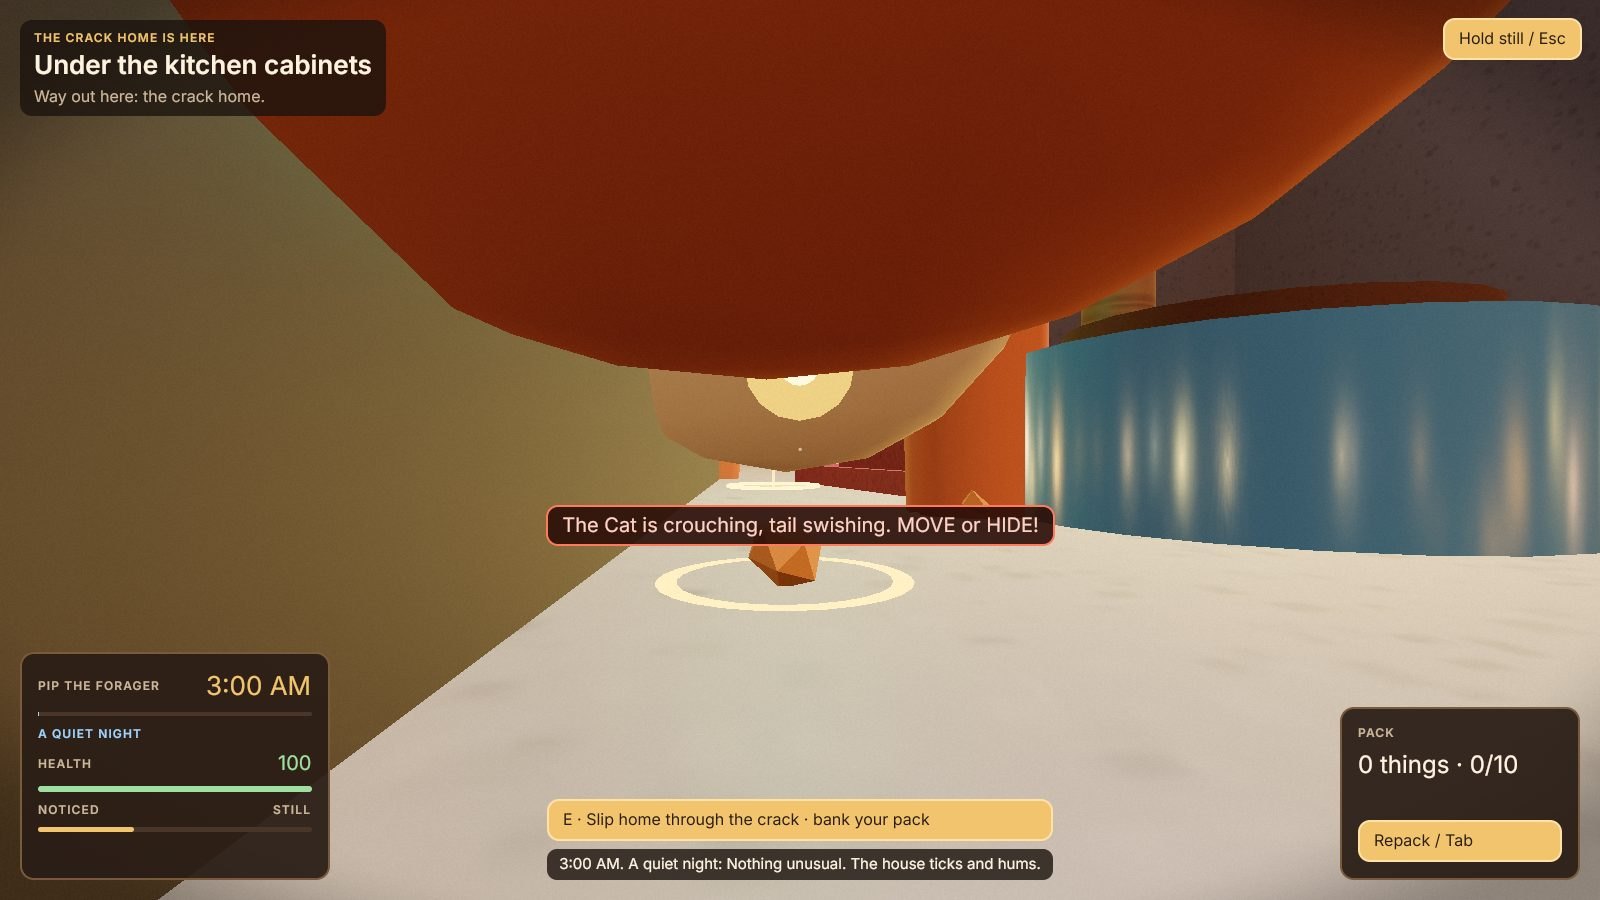
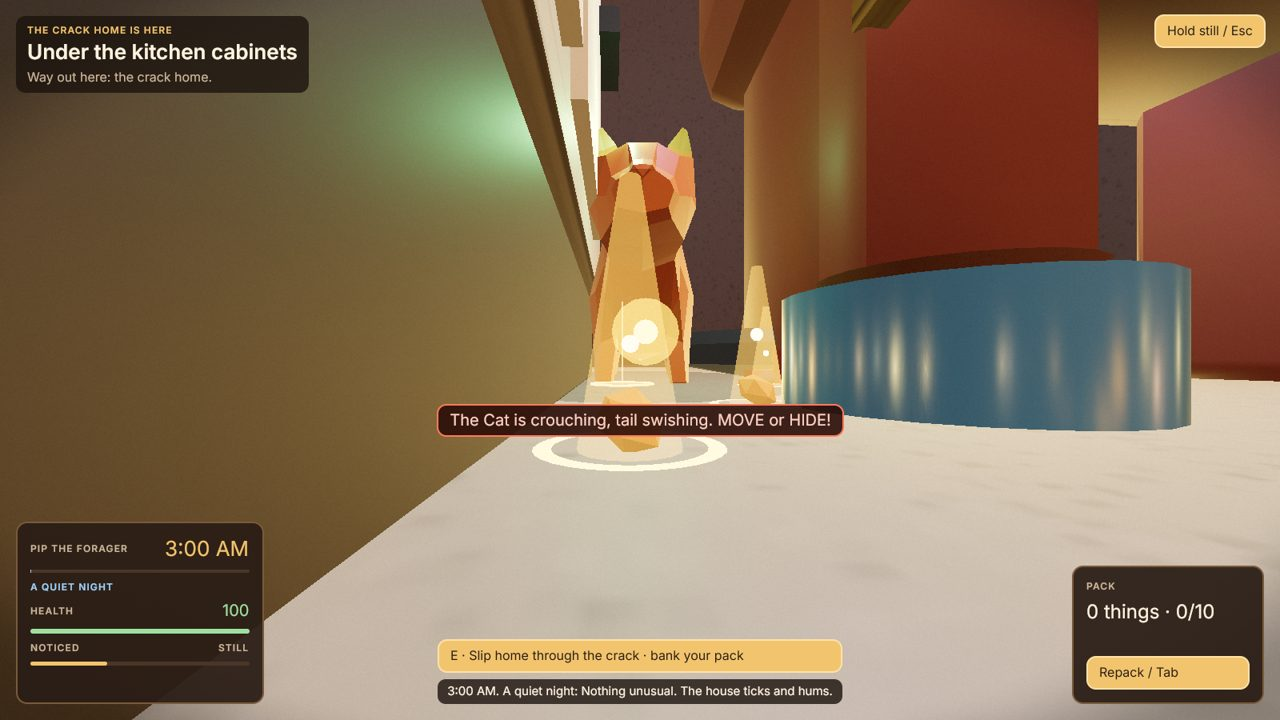
Crumb Run: stash and nook sheets read at a glance; look shots and handoff
The stash capture seeds a few finds so the sheet shows real rows; each set row counts what is
stashed and ticks the pieces, and unowned marks stay visible. Dark finds' marks (a raisin, a
screw) are lifted toward a readable tone. Each Little in the nook shows what they carry, their
pace and how loud they are. The dev seed waits for the burrow to load. proofs/look gains the
animated Cat, the clean pantry view, under the bed, the workbench, the cabinets, the fridge,
the garage shelving, the stash and the nook; the plan's handoff is current.

Claude-Session: https://claude.ai/code/session_013QRD1Uoma5dcaZMX6Wth29

diff --git a/games/deepward/src/game/ui/GameUI.tsx b/games/deepward/src/game/ui/GameUI.tsx
@@ -161,8 +161,8 @@ function StashSheet({ command, close }: { command: Command; close: () => void })
     <Text color={MUTED}>Carry every piece home in one run: each piece is worth more together, and the set pays a bonus.</Text>
     {SET_IDS.map(id => { const set = SETS[id], have = new Set(home.stash.map(i => i.baseId)); return <Section key={id}>
       <Row justify="between"><Heading size={19}>{set.name}</Heading><Tag color={home.sets.includes(id) ? GREEN : MUTED}>{home.sets.includes(id) ? "BANKED" : `+${set.bonus} CAPS`}</Tag></Row>
-      <Row gap={4}>{set.pieces.map(p => <RuneView key={p} opacity={have.has(p) ? 1 : 0.35}><ItemMark kind={p} size={26} /></RuneView>)}</Row>
-      <Text color={MUTED}>{set.pieces.map(p => ITEMS[p].name).join(" · ")}</Text></Section>; })}
+      <Row gap={4}>{set.pieces.map(p => <RuneView key={p} opacity={have.has(p) ? 1 : 0.6} tooltip={`${ITEMS[p].name}${have.has(p) ? " · in the stash" : ""}`}><ItemMark kind={p} size={26} /></RuneView>)}</Row>
+      <Text color={MUTED}>{`${set.pieces.filter(p => have.has(p)).length}/${set.pieces.length} stashed · ${set.pieces.map(p => `${have.has(p) ? "✓ " : ""}${ITEMS[p].name}`).join(" · ")}`}</Text></Section>; })}
     <Text role="status" color={error ? RED : MUTED}>{error || hint}</Text>
   </Sheet>;
 }
@@ -191,6 +191,12 @@ function WorkbenchSheet({ command, close }: { command: Command; close: () => voi
     <Text role="status" color={error ? RED : MUTED}>{error || hint}</Text>
   </Sheet>;
 }
+/** A Little's numbers in words: what they carry, how fast and how loud they are. */
+function traitsOf(l: (typeof LITTLES)[keyof typeof LITTLES], weight: number): string {
+  const pace = l.speed > 1.05 ? "quick on their feet" : l.speed < 0.95 ? "slow going" : "steady pace";
+  const sound = l.noise < 0.9 ? "quiet" : l.noise > 1.1 ? "loud" : "ordinary footsteps";
+  return `Carries ${Math.round(weight * l.carry)} · ${pace} · ${sound}${l.bulkyFree ? " · two-armed finds don't slow them" : ""}`;
+}
 function NookSheet({ command, close }: { command: Command; close: () => void }) {
   const { home, error } = useStore(viewStore, v => ({ home: v.home, error: v.error }));
   const open = littlesOf(home);
@@ -202,6 +208,7 @@ function NookSheet({ command, close }: { command: Command; close: () => void }) 
       return <Section key={id} opacity={here ? 1 : 0.55}>
         <Row justify="between"><Heading size={22} color={l.color}>{`${l.name} ${l.title}`}</Heading>{chosen ? <Tag color={GREEN}>GOES NEXT</Tag> : null}</Row>
         <Text>{l.ability}</Text>
+        <Text color={MUTED} size={14}>{traitsOf(l, pack.weight)}</Text>
         {here ? <Button disabled={chosen} onPress={() => command("chooseLittle", { id })}>{chosen ? "Chosen" : `Send ${l.name}`}</Button> : <Text color={MUTED}>{l.unlock}</Text>}
       </Section>; })}
     <Text role="status" color={RED}>{error}</Text>

diff --git a/games/deepward/src/game/ui/ItemMark.tsx b/games/deepward/src/game/ui/ItemMark.tsx
@@ -10,9 +10,17 @@ const BY_CATEGORY: Record<Category, string> = {
   gear: '<path d="M32 8l20 8v14c0 14-9 22-20 26-11-4-20-12-20-26V16z"/><path d="M24 32l6 6 12-14"/>',
   cap: '<circle cx="32" cy="32" r="20"/><circle cx="32" cy="32" r="13"/><path d="M32 6v6M32 52v6M6 32h6M52 32h6M14 14l4 4M46 46l4 4M50 14l-4 4M18 46l-4 4"/>',
 };
+/** Dark finds (a raisin, a screw) would vanish on the dark tile: lift them toward a readable tone. */
+function readable(hex: string): string {
+  const n = parseInt(hex.slice(1), 16), rgb = [n >> 16 & 255, n >> 8 & 255, n & 255];
+  const light = (0.299 * rgb[0]! + 0.587 * rgb[1]! + 0.114 * rgb[2]!) / 255;
+  if (light >= 0.45) return hex;
+  const lift = (0.45 - light) / (1 - light);
+  return `#${rgb.map(v => Math.round(v + (255 - v) * lift).toString(16).padStart(2, "0")).join("")}`;
+}
 export function ItemMark({ kind, size = 32 }: { kind: ItemKind; size?: number }) {
-  const def = ITEMS[kind];
-  return <RuneView width={size} height={size} fill="#1d140e" radius={size / 4} border={{ width: 1, color: def.color }} justify="center" items="center">
-    <RuneGlyph size={size - 4} color={def.color} artwork={`<g transform="scale(.375)" fill="none" stroke="currentColor" stroke-width="3.2" stroke-linejoin="round" stroke-linecap="round">${BY_CATEGORY[def.category]}</g>`} />
+  const def = ITEMS[kind], color = readable(def.color);
+  return <RuneView width={size} height={size} fill="#1d140e" radius={size / 4} border={{ width: 1, color }} justify="center" items="center">
+    <RuneGlyph size={size - 4} color={color} artwork={`<g transform="scale(.375)" fill="none" stroke="currentColor" stroke-width="3.2" stroke-linejoin="round" stroke-linecap="round">${BY_CATEGORY[def.category]}</g>`} />
   </RuneView>;
 }

diff --git a/games/deepward/src/game/controls.ts b/games/deepward/src/game/controls.ts
@@ -571,10 +571,14 @@ export function registerControls(ctx: GameContext): void {
     ctx.game.commands.define<{ x: number; z: number }>("deepward.dev.stand", { apply(state, input) { teleport(state, [input.x, 0, input.z]); } });
     ctx.game.commands.define<{ template: string }>("deepward.dev.room", { apply(state, input) { void stageRoom(state, input.template); return state; } });
     ctx.game.commands.define<{ stash?: ItemKind[]; caps?: number }>("deepward.dev.seed", { apply(state, input) {
-      const v = viewStore.read(state);
-      if (v.mode !== "home") return;
-      const stash = [...v.home.stash, ...(input.stash ?? []).filter(k => Object.hasOwn(ITEMS, k)).map((kind, i) => rollItem(kind, 1, `seed:${kind}:${i}`, `craft-${v.home.revision + i + 1}:${kind}`))];
-      viewStore.write(state, { ...v, home: { ...v.home, stash, caps: v.home.caps + (input.caps ?? 0) } });
+      const kinds = [...(input.stash ?? [])], caps = input.caps ?? 0;
+      // Waits for the burrow to load, so a capture state can seed it on the first command.
+      void runtime(state).boot.then(() => {
+        const v = viewStore.read(state);
+        if (v.mode !== "home") return;
+        const stash = [...v.home.stash, ...kinds.filter(k => Object.hasOwn(ITEMS, k)).map((kind, i) => rollItem(kind, 1, `seed:${kind}:${i}`, `craft-${v.home.revision + i + 1}:${kind}`))];
+        viewStore.write(state, { ...v, home: { ...v.home, stash, caps: v.home.caps + caps } });
+      });
     } });
   }
   for (const [name, id] of [["open", "stash"], ["openStash", "stash"], ["openWorkbench", "workbench"], ["openNook", "nook"]] as const) ctx.game.commands.define(`deepward.${name}`, { apply(state) {

diff --git a/games/deepward/src/game.tsx b/games/deepward/src/game.tsx
@@ -192,7 +192,7 @@ export const game = defineGame({
       menu: ["deepward.enter", "menu.record"],
       "menu-records": ["deepward.enter", "menu.record", { name: "menu.focus", input: { verb: "records" } }],
       pause: ["deepward.enter", { name: "deepward.pause", input: { paused: true } }],
-      stash: ["deepward.enter", "deepward.openStash"],
+      stash: ["deepward.enter", { name: "deepward.dev.seed", input: { stash: ["thimble", "button", "needle", "raisin", "crumb", "coin", "marble", "paperclip", "thread-spool"], caps: 35 } }, "deepward.openStash"],
       workbench: ["deepward.enter", "deepward.openWorkbench"],
       nook: ["deepward.enter", "deepward.openNook"],
       burrow: ["deepward.enter"],

diff --git a/games/deepward/PLAN.md b/games/deepward/PLAN.md
@@ -146,7 +146,7 @@ the floor, and for the first three nights a firefly floats over whatever the gui
 Balance (headless sims over seeded rooms, straight-line bot that never dodges): a find six rooms in
 is worth about three times one at the crack; lethal risk per room ramps from 0% at the crack to about
 17% five rooms deep; the Littles' finds differ by category (Pip 60% food, Bolt 37% parts, Dot 47%
-curios). Tests: `bun run test` in the package (44); suite 16/16; flow `proofs/flows/first-night.flow.ts`.
+curios). Tests: `bun run test` in the package (45); suite 16/16; flow `proofs/flows/first-night.flow.ts`.
 
 On screen (software WebGPU capture, `apps/dev` runner, `?state=`): `proofs/look/` holds the burrow,
 the first-night kitchen with its glinting crumbs and the firefly guide, the Cat's crouch tell, the
@@ -163,7 +163,20 @@ models at inch-high scale (KayKit couch, armchair, lamp, rug, kid's bed; Quatern
 cutlery, plates, chest, books, boxes, cans, tyres); props are slid out of doorways; an 82 degree view
 and soft floor shadows under the Cat and dog. Every room has a capture state, `room:<template>`.
 
-Next: room overviews still land beside a giant prop in dense rooms (dining table, rug); the Cat and dog
-are procedural (a library dog model exists but is unanimated); ten rooms have had no model pass yet
-(kitchen cabinets, under the fridge, bookshelf, front hall, under the bed, bathroom, laundry, both
-garage shelves rooms beyond a few cans); UI sheets beyond the workbench were not inspected.
+Look round 6: the Cat and the dog are Quaternius' animated animals (CC0, idle and walk cycles, each
+house Cat in its own coat; the procedural bodies stay as the fallback). Door and exit marks fade while
+a Little stands on them (they were the white pole and arc in the pantry view); find beams are thinner,
+shorter and fainter. Catalog props reached the bare rooms (under the fridge, under the bed, under the
+sink, the laundry) and more went into the hall, couch, bookshelf, Christmas boxes and cabinets. Two
+fixes under the look: the door-clearing pass moved every prop sharing a label as one (a room's four
+legs slid together, a sneaker left its sole), and the game's teleport skipped the engine's, so the
+camera never turned to the facing it was given. Look captures (`room:<template>`) now stand where a
+fan as wide as the view runs clear of solids, eye-level props, models and hunters, with the room's
+hunters held off. The stash capture seeds a few finds; set rows count what is stashed and tick it;
+dark finds' marks are lifted to stay readable; each Little in the nook shows carry, pace and noise.
+`proofs/look/` adds the animated Cat, under the bed, the workbench, the cabinets, stash and nook.
+
+Next: rooms with a dog (front hall, workbench, garage bikes) cannot frame round a body that size,
+so their overviews show part of it close; the dog keeps the pack's own colours; the stash lists each
+find on its own tall row (long once the stash fills); tilted panels (the sink cupboard door) still
+fill some overviews.
